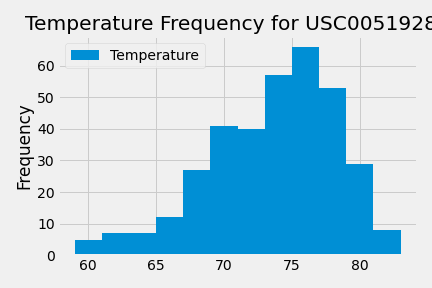
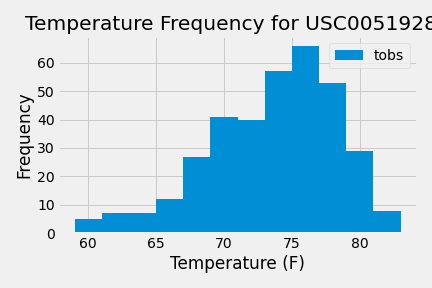
updating

diff --git a/App/Climate_App.py b/App/Climate_App.py
@@ -32,10 +32,11 @@ def welcome():
 def precipitation():
     # Create our session (link) from Python to the DB
     session = Session(engine)
-
-    """Return a list of all Precipitation data"""
+    #start date variable
+    start_date = dt.date(2017, 8, 23) - dt.timedelta(days=366)
+    """Return a list of all Precipitation data for the last year"""
     # Query precipitation
-    results = session.query(Measurement.date, Measurement.prcp).order_by(Measurement.date).all()
+    results = session.query(Measurement.date, Measurement.prcp).filter(Measurement.date > start_date).order_by(Measurement.date).all()
     #close session
     session.close()
     # Convert list

diff --git a/README.md b/README.md
@@ -30,13 +30,12 @@ To run the climate analysis, you will need to open the file in Jupyter Notebook.
 The data is provided in the Resources folder. 
 
 ## Images
-There are 3 saved images from this data. The first is a bargraph detailing the precipition recorded over the last year of the data. The second are the frequency at which temperatures occur at the most 
+There are 2 saved images from this data. The first is a bargraph detailing the precipition recorded over the last year of the data provided from all of the stations. The second is a frequency histogram showing the frequency of temperatures at the station that had the most observations listed in the data. 
 
 Image 1:  City Latitude vs Max Temp from WeatherPy  
 ![image](Images/Precipitation.png)  
 Image 2:  City Latitude vs Humidity from WeatherPy  
-![image](Images/02_ScatterPlot.png)  
-Image 3:  City Latitude vs Cloudiness from WeatherPy  
-![image](Images/03_ScatterPlot.png)  
+![image](Images/Top_Station_Freq.png)  
 
 ## Overview
+The date provided is for 9 stations that include the temperature and precipitation recorded. All of the stations are in Hawaii. From the data we can extrapolate that station USC00519281 in Waihee, Hawaii has the most observations in the data provided. The last date recorded in the data set is 2017-08-23. The climate app shows the precipitation data for the last year, the station information, and the information for the station USC00519281 already filtered out. It also allows the user to provide a date, and it will find the min, max, and average for that date to the last date provided. In the Jupyter Notebook, we can see that for Station USC00519281, the temperature is most frequently around 75 degrees fahrenheit. 
